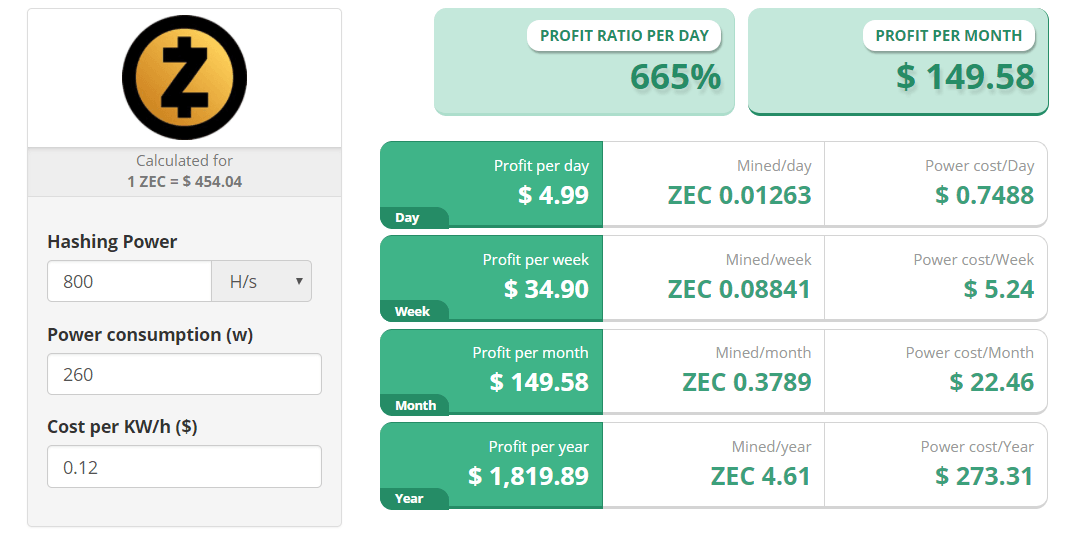
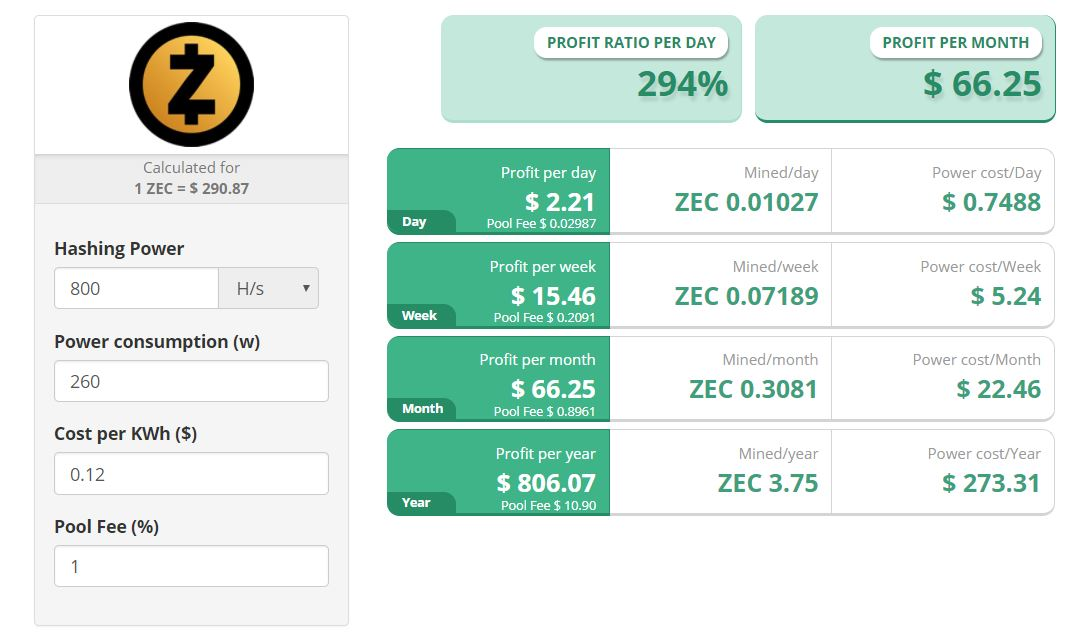
test

diff --git a/pages/crypto-mining/zcash-hardware.md b/pages/crypto-mining/zcash-hardware.md
@@ -191,7 +191,7 @@ Joining a mining pool will yield faster results, and increase your chances of su
 Zcash seems to be a profitable cryptocurrency to mine in 2018. In fact, you can expect to see profits just shy of $1,000 annually! Take a look at the projected earnings with a [GTX 1080 Ti](http://rover.ebay.com/rover/1/711-53200-19255-0/1?icep_ff3=9&pub=5575177097&toolid=10001&campid=5338210626&customid=&icep_uq=Gigabyte+GTX+1080+Ti+Aorus&icep_sellerId=&icep_ex_kw=&icep_sortBy=12&icep_catId=&icep_minPrice=&icep_maxPrice=&ipn=psmain&icep_vectorid=229466&kwid=902099&mtid=824&kw=lg){:target="_blank"}
 
 <figure>
-	<img class="img-middle" alt="projected Zcash earnings" src="/img/cryptocurrency/zcash-profit.jpeg" />
+	<img class="img-middle" alt="projected Zcash earnings" src="/img/cryptocurrency/zcash-profit.png" />
 	<figcaption>calculated for 1 ZEC "290.87"</figcaption>
 </figure>
 
